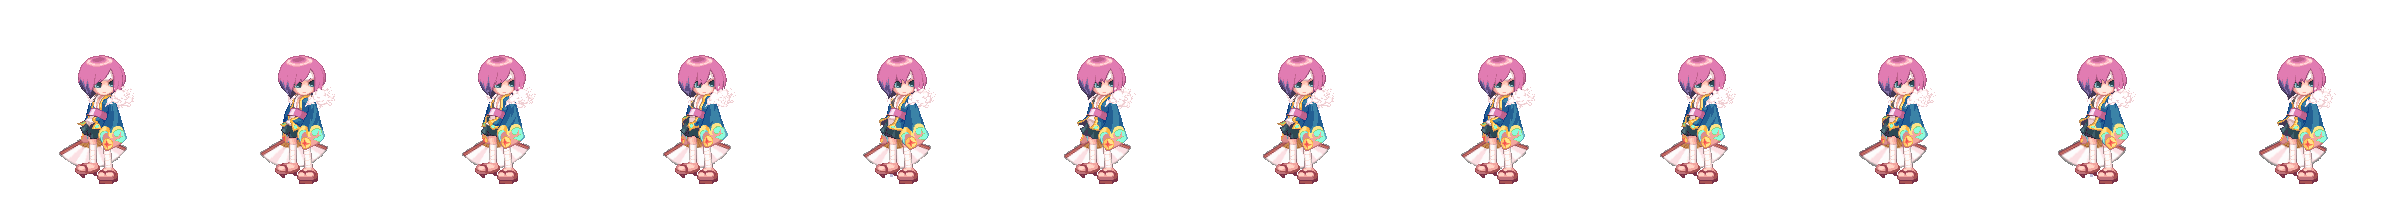
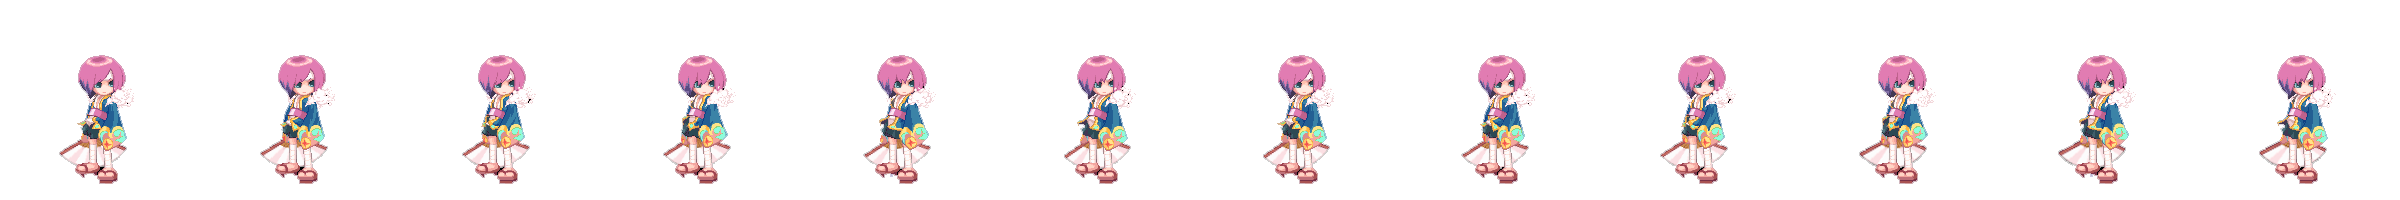
캐릭터 출력

diff --git a/TermProject/app/src/main/java/kr/ac/kpu/game/s2016182041/project/game/Player.java b/TermProject/app/src/main/java/kr/ac/kpu/game/s2016182041/project/game/Player.java
@@ -4,6 +4,7 @@ import android.graphics.Canvas;
 import android.graphics.RectF;
 import android.util.Log;
 
+
 import kr.ac.kpu.game.s2016182041.project.R;
 import kr.ac.kpu.game.s2016182041.project.framework.bitmap.IndexedAnimationGameBitmap;
 import kr.ac.kpu.game.s2016182041.project.framework.game.BaseGame;
@@ -24,11 +25,13 @@ public class Player implements GameObject, BoxCollidable {
     private float tx, ty;
     private float vertSpeed;
     private float speed;
-
-    private enum State {
-        running, jump, doubleJump, slide, hit
+    public int moveTo;
+    public enum State {
+        sleep, attack, skill1, skill2,move, hit,LAYER_COUNT
     }
-    private State state = State.running;
+
+
+    private State state = State.move;
 
     public Player(float x, float y) {
         this.x = x;
@@ -37,12 +40,15 @@ public class Player implements GameObject, BoxCollidable {
         this.tx = x;
         this.ty = 0;
         this.speed = 800;
-        this.charBitmap = new IndexedAnimationGameBitmap(R.mipmap.tengo, 4.5f, 0);
-        this.charBitmap.setIndices(100, 101, 102, 103);
+        this.charBitmap = new IndexedAnimationGameBitmap(R.mipmap.tengo_alls, 4.5f, 0);
+        this.charBitmap.setIndices(4,3,300,311);
+
 //        this.planeBitmap = new GameBitmap(R.mipmap.fighter);
 //        this.fireBitmap = new GameBitmap(R.mipmap.laser_0);
         this.fireTime = 0.0f;
     }
+
+
 
     public void moveTo(float x, float y) {
         this.tx = x;
@@ -50,22 +56,29 @@ public class Player implements GameObject, BoxCollidable {
     }
 
     public void update() {
+        if(state == State.move){
+            moveTo+=10;
+            if(moveTo>=300){
+                state=State.sleep;
+                charBitmap.setIndices(2,3,0,11);
+            }
+        }
         BaseGame game = BaseGame.get();
-        if (state == State.jump) {
+        if (state == State.attack) {
             float y = this.y + vertSpeed * game.frameTime;
 //            charBitmap.move(0, y - this.y);
             vertSpeed += GRAVITY * game.frameTime;
             if (y >= ground_y) {
                 y = ground_y;
-                state = State.running;
-                this.charBitmap.setIndices(100, 101, 102, 103);
+                state = State.sleep;
+                this.charBitmap.setIndices(5,3,200,220);
             }
             this.y = y;
         }
     }
 
     public void draw(Canvas canvas) {
-        charBitmap.draw(canvas, x, y);
+        charBitmap.draw(canvas, moveTo, y);
     }
 
     @Override
@@ -75,12 +88,12 @@ public class Player implements GameObject, BoxCollidable {
 
     public void jump() {
         //if (state != State.running && state != State.jump && state != State.slide) {
-        if (state != State.running) {
+        if (state != State.sleep) {
             Log.d(TAG, "Not in a state that can jump: " + state);
             return;
         }
-        state = State.jump;
-        charBitmap.setIndices(7, 8);
+        state = State.attack;
+        charBitmap.setIndices(4,3, 100,110);
         vertSpeed = -JUMP_POWER;
     }
 }

diff --git a/TermProject/app/src/main/java/kr/ac/kpu/game/s2016182041/project/game/MainGame.java b/TermProject/app/src/main/java/kr/ac/kpu/game/s2016182041/project/game/MainGame.java
@@ -2,7 +2,10 @@ package kr.ac.kpu.game.s2016182041.project.game;
 
 import android.view.MotionEvent;
 
+import java.util.ArrayList;
+
 import kr.ac.kpu.game.s2016182041.project.R;
+import kr.ac.kpu.game.s2016182041.project.framework.bitmap.GameBitmap;
 import kr.ac.kpu.game.s2016182041.project.framework.game.BaseGame;
 import kr.ac.kpu.game.s2016182041.project.framework.iface.GameObject;
 import kr.ac.kpu.game.s2016182041.project.framework.object.HorizontalScrollBackground;
@@ -12,9 +15,9 @@ public class MainGame extends BaseGame{
     private boolean initialized;
     private Player player;
     private Score score;
-
+    public int bgspeed = -30;
     public enum Layer {
-        bg, platform, player, ui, controller, LAYER_COUNT
+        bg, platform,card, player, ui, controller, LAYER_COUNT
     }
 
     public void add(Layer layer, GameObject obj) {
@@ -31,28 +34,26 @@ public class MainGame extends BaseGame{
 
         initLayers(Layer.LAYER_COUNT.ordinal());
 
-        player = new Player(200, h - 300);
+        player = new Player(0, h - 300);
         //layers.get(Layer.player.ordinal()).add(player);
         add(Layer.player, player);
 //        add(Layer.controller, new EnemyGenerator());
-
         int margin = (int) (20 * GameView.MULTIPLIER);
         score = new Score(w - margin, margin);
         score.setScore(0);
         add(Layer.ui, score);
-
-        add(Layer.bg, new HorizontalScrollBackground(R.mipmap.map1, -10));
+        add(Layer.bg, new HorizontalScrollBackground(R.mipmap.map1, bgspeed,0));
 //        add(Layer.bg, new HorizontalScrollBackground(R.mipmap.cookie_run_bg_2, -20));
 //        add(Layer.bg, new HorizontalScrollBackground(R.mipmap.cookie_run_bg_3, -30));
-
-        float tx = 100, ty = h - 500;
-        while (tx < w) {
-            Platform platform = new Platform(Platform.Type.T_10x2, tx, ty);
-            add(Layer.platform, platform);
-            tx += platform.getDstWidth();
-//        VerticalScrollBackground clouds = new VerticalScrollBackground(R.mipmap.clouds, 20);
-//        add(Layer.bg2, clouds);
-        }
+        add(Layer.platform,new HorizontalScrollBackground(R.mipmap.grass2,bgspeed,-1700));
+//        float tx = 0, ty = h - 150;
+//        while (tx < w) {
+//            Platform platform = new Platform(Platform.Type.T_10x2, tx, ty);
+//            add(Layer.platform, platform);
+//            tx += platform.getDstWidth();
+////        VerticalScrollBackground clouds = new VerticalScrollBackground(R.mipmap.clouds, 20);
+////        add(Layer.bg2, clouds);
+//        }
 
         initialized = true;
         return true;
@@ -62,7 +63,9 @@ public class MainGame extends BaseGame{
     @Override
     public void update() {
         super.update();
-
+        if(player.moveTo>=300){
+            bgspeed=0;
+        }
         // collision check
     }
 

diff --git a/TermProject/app/src/main/java/kr/ac/kpu/game/s2016182041/project/framework/bitmap/IndexedAnimationGameBitmap.java b/TermProject/app/src/main/java/kr/ac/kpu/game/s2016182041/project/framework/bitmap/IndexedAnimationGameBitmap.java
@@ -7,28 +7,30 @@ import android.util.Log;
 import java.util.ArrayList;
 
 import kr.ac.kpu.game.s2016182041.project.framework.view.GameView;
+import kr.ac.kpu.game.s2016182041.project.game.Player;
 
 public class    IndexedAnimationGameBitmap extends AnimationGameBitmap {
 
     private static final String TAG = IndexedAnimationGameBitmap.class.getSimpleName();
-    private final int frameHeight;
 
+    public int FrameX;
+    public int FrameY;
     public IndexedAnimationGameBitmap(int resId, float framesPerSecond, int frameCount) {
         super(resId, framesPerSecond, frameCount);
-        this.frameWidth = 270;
-        this.frameHeight = 270;
     }
 
     protected ArrayList<Rect> srcRects;
-    public void setIndices(int... indices) {
+    public void setIndices(int indexFrameX,int indexFrameY,int... indices) {
+        this.FrameX=indexFrameX*100;
+        this.FrameY=indexFrameY*100;
         srcRects = new ArrayList<>();
         for (int index: indices) {
             int x = index % 100;
             int y = index / 100;
-            int l = 2 + x * 272;
-            int t = 2 + y * 272;
-            int r = l + 270;
-            int b = t + 270;
+            int l =  x * 100*indexFrameX;
+            int t = y * 100*indexFrameY;
+            int r = l + 100*indexFrameX;
+            int b = t + 100*indexFrameY;
             Rect rect = new Rect(l, t, r, b);
             Log.d(TAG, "Adding rect: " + rect);
             srcRects.add(rect);
@@ -42,8 +44,8 @@ public class    IndexedAnimationGameBitmap extends AnimationGameBitmap {
         frameIndex = Math.round(elapsed * 0.001f * framesPerSecond) % frameCount;
         //Log.d(TAG, "frameIndex=" + frameIndex + " frameCount=" + frameCount);
 
-        int fw = frameWidth;
-        int h = frameHeight;
+        int fw = FrameX;
+        int h = FrameY;
         float hw = fw / 2 * GameView.MULTIPLIER;
         float hh = h / 2 * GameView.MULTIPLIER;
         dstRect.set(x - hw, y - hh, x + hw, y + hh);

diff --git a/TermProject/app/src/main/java/kr/ac/kpu/game/s2016182041/project/framework/object/HorizontalScrollBackground.java b/TermProject/app/src/main/java/kr/ac/kpu/game/s2016182041/project/framework/object/HorizontalScrollBackground.java
@@ -10,19 +10,20 @@ import kr.ac.kpu.game.s2016182041.project.framework.game.BaseGame;
 import kr.ac.kpu.game.s2016182041.project.framework.iface.GameObject;
 import kr.ac.kpu.game.s2016182041.project.framework.view.GameView;
 
+
 public class HorizontalScrollBackground implements GameObject {
     private final Bitmap bitmap;
-    private final float speed;
+    private float speed;
     private float scroll;
 
     private Rect srcRect = new Rect();
     private RectF dstRect = new RectF();
-    public HorizontalScrollBackground(int resId, int speed) {
+    public HorizontalScrollBackground(int resId, int speed,int y) {
         this.speed = speed * GameView.MULTIPLIER;
         bitmap = GameBitmap.load(resId);
         int w = bitmap.getWidth();
         int h = bitmap.getHeight();
-        srcRect.set(0, 0, w, h);
+        srcRect.set(0, y, w, h);
         float l = 0;
         float t = 0;
         float b = GameView.view.getHeight();
@@ -38,6 +39,7 @@ public class HorizontalScrollBackground implements GameObject {
 
     @Override
     public void draw(Canvas canvas) {
+
         int vw = GameView.view.getWidth();
         int vh = GameView.view.getHeight();
         int iw = bitmap.getWidth();
@@ -46,8 +48,7 @@ public class HorizontalScrollBackground implements GameObject {
 
         int curr = (int)scroll % dw;
         if (curr > 0) curr -= dw;
-
-        while (curr < vh) {
+        while (curr < vw) {
             dstRect.set(curr, 0, curr + dw, vh);
             canvas.drawBitmap(bitmap, srcRect, dstRect, null);
             curr += dw;

diff --git a/TermProject/app/src/main/java/kr/ac/kpu/game/s2016182041/project/game/Card.java b/TermProject/app/src/main/java/kr/ac/kpu/game/s2016182041/project/game/Card.java
@@ -1,0 +1,20 @@
+package kr.ac.kpu.game.s2016182041.project.game;
+
+import java.util.ArrayList;
+
+import kr.ac.kpu.game.s2016182041.project.R;
+import kr.ac.kpu.game.s2016182041.project.framework.object.ImageObject;
+import kr.ac.kpu.game.s2016182041.project.framework.view.GameView;
+
+public class Card {
+    ArrayList<Integer> cardList = new ArrayList<>();
+
+    public void cardAdd(){
+        cardList.add(R.mipmap.attack);
+        cardList.add(R.mipmap.all_attack);
+        cardList.add(R.mipmap.shield);
+    }
+
+    
+
+}
